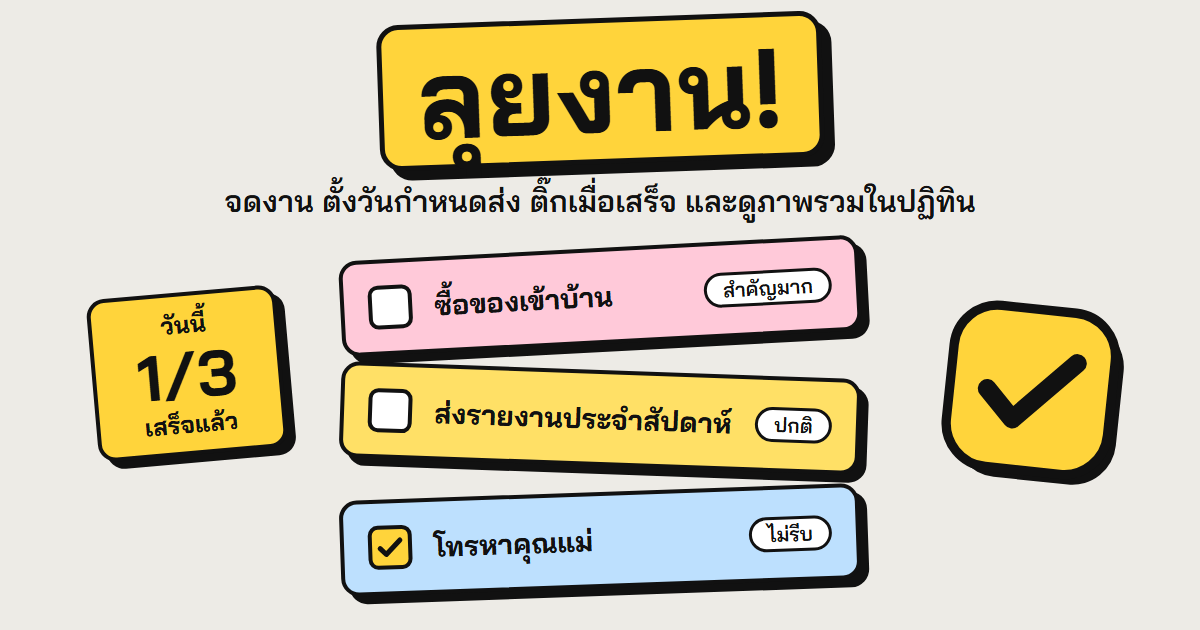
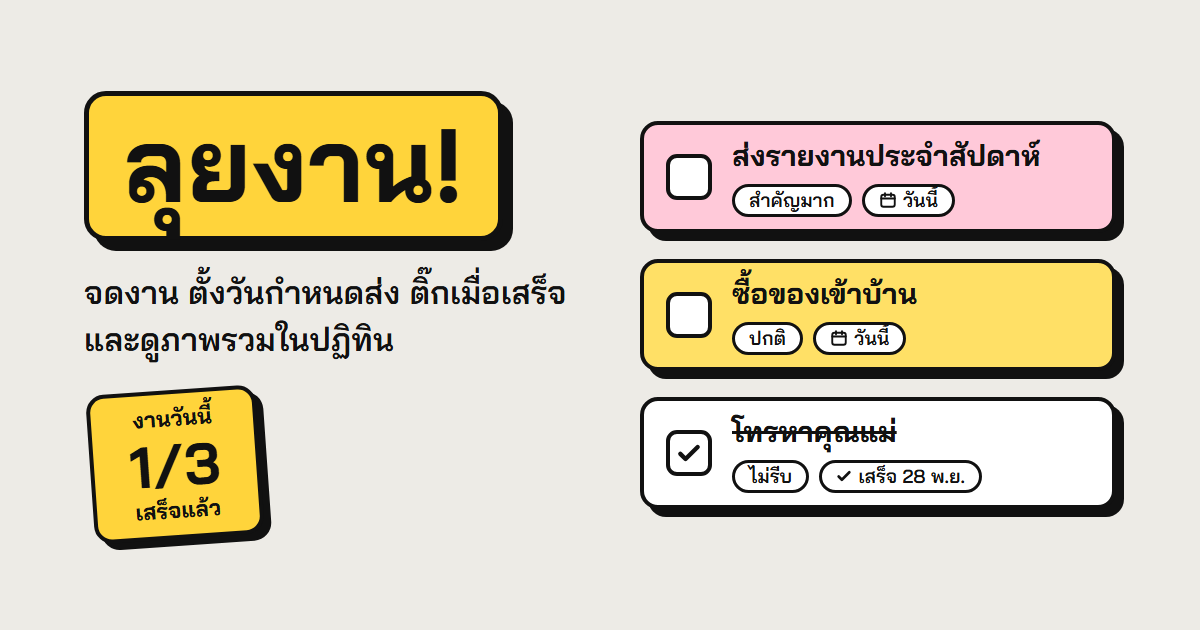
Owner check: one past date warning, no duplicate empty text, no empty band in the add box; straight og image

diff --git a/brand/og-image.html b/brand/og-image.html
@@ -5,26 +5,30 @@
 @font-face{font-family:"BJ";font-weight:600;src:url("../node_modules/@fontsource/bai-jamjuree/files/bai-jamjuree-latin-600-normal.woff2") format("woff2");unicode-range:U+0000-00FF,U+2000-206F;}
 *{box-sizing:border-box;margin:0}
 body{width:1200px;height:630px;background:#EDEBE6;font-family:"BJ",sans-serif;color:#111;position:relative;overflow:hidden}
-h1{position:absolute;left:0;width:1200px;top:18px;text-align:center;font-weight:700;font-size:112px;line-height:136px}
-h1 span{display:inline-block;background:#FFD43B;border:5px solid #111;border-radius:22px;box-shadow:10px 10px 0 #111;padding:0 34px;transform:rotate(-2deg)}
-.card{position:absolute;left:340px;width:520px;height:96px;border:4px solid #111;border-radius:18px;box-shadow:8px 8px 0 #111;display:flex;align-items:center;gap:22px;padding:0 24px}
-.cb{width:44px;height:44px;border:4px solid #111;border-radius:10px;background:#fff;flex:none}
-.cb.on{background:#FFD43B;display:flex;align-items:center;justify-content:center}
-.t{font-weight:700;font-size:28px;flex:1;white-space:nowrap}
-.pill{font-weight:600;font-size:20px;border:3px solid #111;border-radius:999px;padding:2px 16px;background:#fff;white-space:nowrap}
-.c1{top:248px;background:#FFC9D9;transform:rotate(-3deg)}
-.c2{top:370px;background:#FFE066;transform:rotate(2deg)}
-.c3{top:492px;background:#BDE0FE;transform:rotate(-2deg)}
-.tag{position:absolute;left:0;width:1200px;top:180px;text-align:center;font-weight:600;font-size:30px;line-height:1.4;white-space:nowrap}
-.logo{position:absolute;left:940px;top:300px;width:190px;transform:rotate(6deg)}
-.stk{position:absolute;left:92px;top:292px;width:190px;transform:rotate(-5deg);background:#FFD43B;border:4px solid #111;border-radius:18px;box-shadow:8px 8px 0 #111;text-align:center;padding:14px 0 12px;font-weight:700}
-.stk b{display:block;font-size:64px;line-height:1.1}.stk span{font-size:24px}.stk .k{display:block;line-height:1.2}
+/* Everything sits straight on one grid; only the today sticker tilts, like the stickers in the app header (owner: the old one looked crooked). */
+.left{position:absolute;left:84px;top:0;width:500px;height:630px;display:flex;flex-direction:column;justify-content:center;gap:28px}
+.title{align-self:flex-start;background:#FFD43B;border:5px solid #111;border-radius:22px;box-shadow:10px 10px 0 #111;font-weight:700;font-size:104px;line-height:1.25;padding:2px 34px 8px}
+.tag{font-weight:600;font-size:32px;line-height:1.45}
+.stk{align-self:flex-start;margin-left:6px;width:170px;transform:rotate(-4deg);background:#FFD43B;border:4px solid #111;border-radius:18px;box-shadow:7px 7px 0 #111;text-align:center;padding:10px 0 10px;font-weight:700;z-index:2}
+.stk .k{display:block;font-size:22px;line-height:1.3}.stk b{display:block;font-size:58px;line-height:1.1}.stk .d{display:block;font-size:22px;line-height:1.3}
+.list{position:absolute;left:640px;top:0;width:476px;height:630px;display:flex;flex-direction:column;justify-content:center;gap:26px}
+.card{height:112px;border:4px solid #111;border-radius:18px;box-shadow:8px 8px 0 #111;display:flex;align-items:center;gap:20px;padding:0 22px}
+.cb{width:46px;height:46px;border:4px solid #111;border-radius:11px;background:#fff;flex:none;display:flex;align-items:center;justify-content:center}
+.body{display:flex;flex-direction:column;gap:9px;min-width:0}
+.t{font-weight:700;font-size:29px;line-height:1.3;white-space:nowrap}
+.chips{display:flex;gap:10px}
+.pill{font-weight:600;font-size:19px;line-height:1.3;border:3px solid #111;border-radius:999px;padding:1px 14px;background:#fff;white-space:nowrap;display:inline-flex;align-items:center;gap:6px}
+.hi{background:#FFC9D9}.no{background:#FFE066}
+.done{background:#fff}.done .t{text-decoration:line-through;text-decoration-thickness:3px}
 </style></head><body>
-<h1><span>ลุยงาน!</span></h1>
-<div class="card c1"><div class="cb"></div><div class="t">ซื้อของเข้าบ้าน</div><div class="pill">สำคัญมาก</div></div>
-<div class="card c2"><div class="cb"></div><div class="t">ส่งรายงานประจำสัปดาห์</div><div class="pill">ปกติ</div></div>
-<div class="card c3"><div class="cb on"><svg width="30" height="30" viewBox="0 0 30 30"><path d="M5 16l6 6 14-14" fill="none" stroke="#111" stroke-width="5" stroke-linecap="round" stroke-linejoin="round"/></svg></div><div class="t">โทรหาคุณแม่</div><div class="pill">ไม่รีบ</div></div>
-<div class="tag">จดงาน ตั้งวันกำหนดส่ง ติ๊กเมื่อเสร็จ และดูภาพรวมในปฏิทิน</div>
-<div class="stk"><span class="k">วันนี้</span><b>1/3</b><span>เสร็จแล้ว</span></div>
-<svg class="logo" viewBox="1.5 1.5 30.5 30.5"><rect x="4.5" y="4.5" width="26" height="26" rx="7" fill="#111"/><rect x="3" y="3" width="26" height="26" rx="7" fill="#FFD43B" stroke="#111" stroke-width="1.5"/><path d="M9 16.5l4.5 4.5L23 11" fill="none" stroke="#111" stroke-width="3" stroke-linecap="round" stroke-linejoin="round"/></svg>
+<div class="left">
+  <div class="title">ลุยงาน!</div>
+  <div class="tag">จดงาน ตั้งวันกำหนดส่ง ติ๊กเมื่อเสร็จ<br>และดูภาพรวมในปฏิทิน</div>
+  <div class="stk"><span class="k">งานวันนี้</span><b>1/3</b><span class="d">เสร็จแล้ว</span></div>
+</div>
+<div class="list">
+  <div class="card hi"><div class="cb"></div><div class="body"><div class="t">ส่งรายงานประจำสัปดาห์</div><div class="chips"><span class="pill">สำคัญมาก</span><span class="pill"><svg width="18" height="18" viewBox="0 0 24 24" fill="none" stroke="#111" stroke-width="2.5" stroke-linecap="round"><rect x="3" y="5" width="18" height="16" rx="3"/><path d="M3 10h18M8 3v4M16 3v4"/></svg>วันนี้</span></div></div></div>
+  <div class="card no"><div class="cb"></div><div class="body"><div class="t">ซื้อของเข้าบ้าน</div><div class="chips"><span class="pill">ปกติ</span><span class="pill"><svg width="18" height="18" viewBox="0 0 24 24" fill="none" stroke="#111" stroke-width="2.5" stroke-linecap="round"><rect x="3" y="5" width="18" height="16" rx="3"/><path d="M3 10h18M8 3v4M16 3v4"/></svg>วันนี้</span></div></div></div>
+  <div class="card done"><div class="cb"><svg width="26" height="26" viewBox="0 0 30 30"><path d="M5 16l6 6 14-14" fill="none" stroke="#111" stroke-width="5" stroke-linecap="round" stroke-linejoin="round"/></svg></div><div class="body"><div class="t">โทรหาคุณแม่</div><div class="chips"><span class="pill">ไม่รีบ</span><span class="pill"><svg width="16" height="16" viewBox="0 0 30 30"><path d="M5 16l6 6 14-14" fill="none" stroke="#111" stroke-width="5" stroke-linecap="round" stroke-linejoin="round"/></svg>เสร็จ 28 พ.ย.</span></div></div></div>
+</div>
 </body></html>

diff --git a/src/components/AddBar.vue b/src/components/AddBar.vue
@@ -29,7 +29,8 @@ defineExpose({ focus: () => input.value?.focus() })
 
 <template>
   <form
-    class="relative flex flex-col gap-2.5 sm:gap-3 sm:rounded-2xl sm:border-2 sm:bg-white sm:p-3.5 sm:pb-9 sm:shadow-brutal"
+    class="relative flex flex-col gap-2.5 sm:gap-3 sm:rounded-2xl sm:border-2 sm:bg-white sm:p-3.5 sm:shadow-brutal"
+    :class="pastDue && 'sm:pb-9'"
     @submit.prevent="submit"
   >
     <!-- Wraps only when the browser font size is very large, so the box keeps room for its text (UI 5). -->
@@ -89,7 +90,7 @@ defineExpose({ focus: () => input.value?.focus() })
       </AnchoredPicker>
       </div>
     </div>
-    <!-- Its own line that never moves the row above: kept free in the phone sheet, in a band kept free at the bottom inside the box from 640px (recheck 2, M3). -->
+    <!-- Its own line that never moves the rows above: kept free in the phone sheet; from 640px a band opens at the bottom of the box only while the hint shows (recheck 2, M3; an always empty band looked like a broken box, owner check 2026-11-28). -->
     <p
       :id="PAST_HINT_ID"
       :data-past-hint="pastDue ? '' : undefined"

diff --git a/src/components/ListSkeleton.vue b/src/components/ListSkeleton.vue
@@ -17,7 +17,7 @@ const { waitedSec } = useTodos()
   <div v-else class="flex flex-col gap-4 sm:gap-6" aria-busy="true" role="status" aria-live="polite">
     <!-- add bar (phones add through the round + button instead) -->
     <div
-      class="flex flex-col max-sm:hidden gap-2.5 sm:gap-3 sm:rounded-2xl sm:border-2 sm:border-line sm:bg-white sm:p-3.5 sm:pb-9 sm:shadow-[4px_4px_0_var(--color-line)]"
+      class="flex flex-col max-sm:hidden gap-2.5 sm:gap-3 sm:rounded-2xl sm:border-2 sm:border-line sm:bg-white sm:p-3.5 sm:shadow-[4px_4px_0_var(--color-line)]"
     >
       <div class="flex gap-2 sm:gap-2.5">
         <div class="box-border h-13 flex-1 rounded-xl border-2 bg-white shadow-brutal-sm sm:h-13.5 sm:border-line sm:shadow-none"></div>
